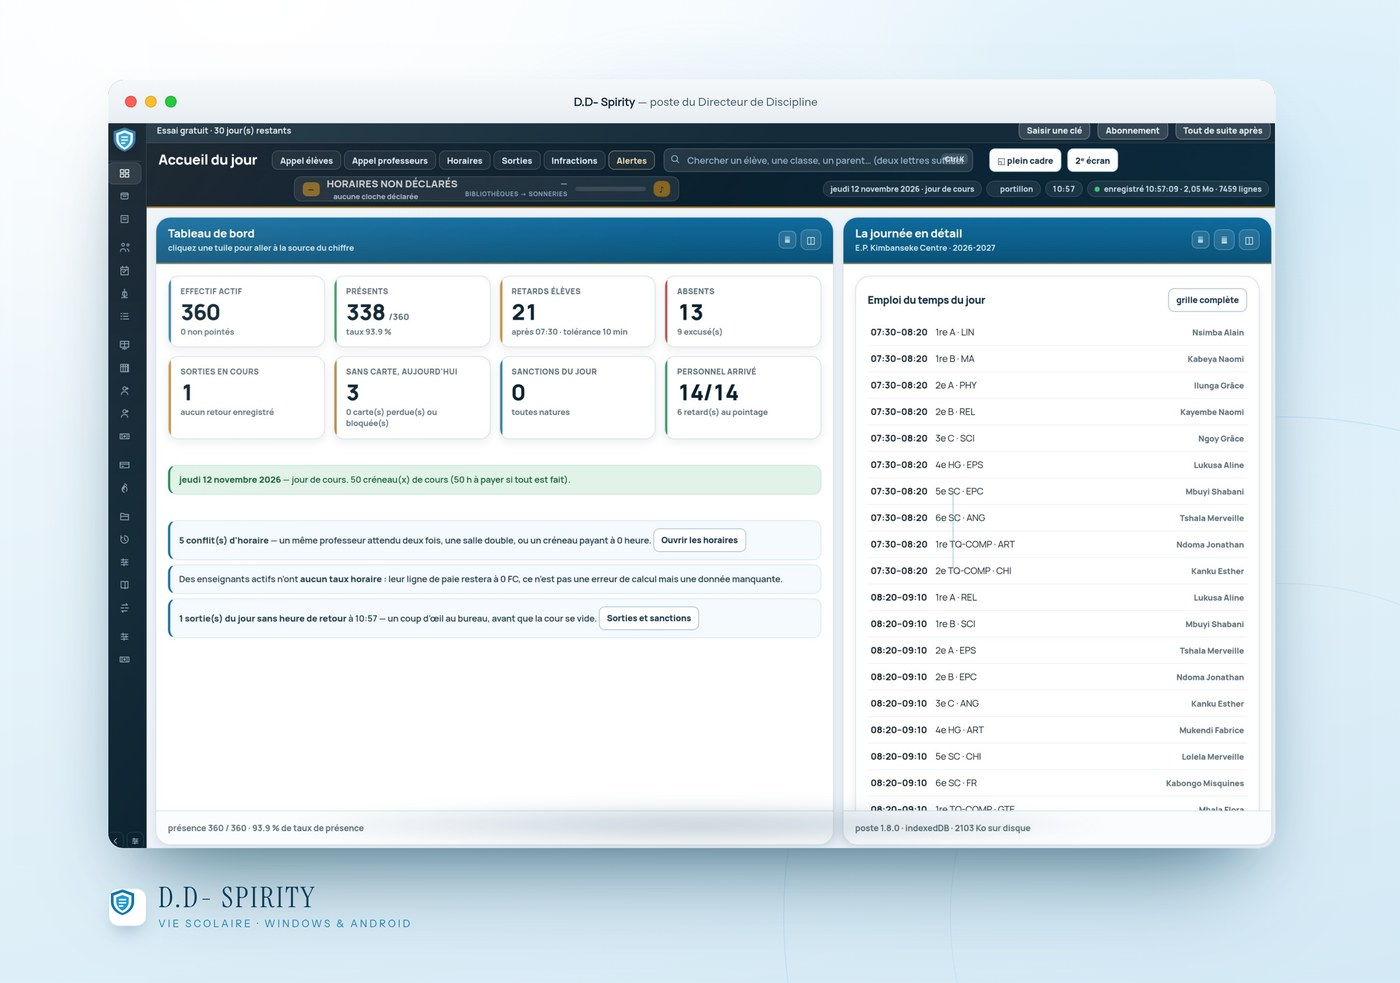
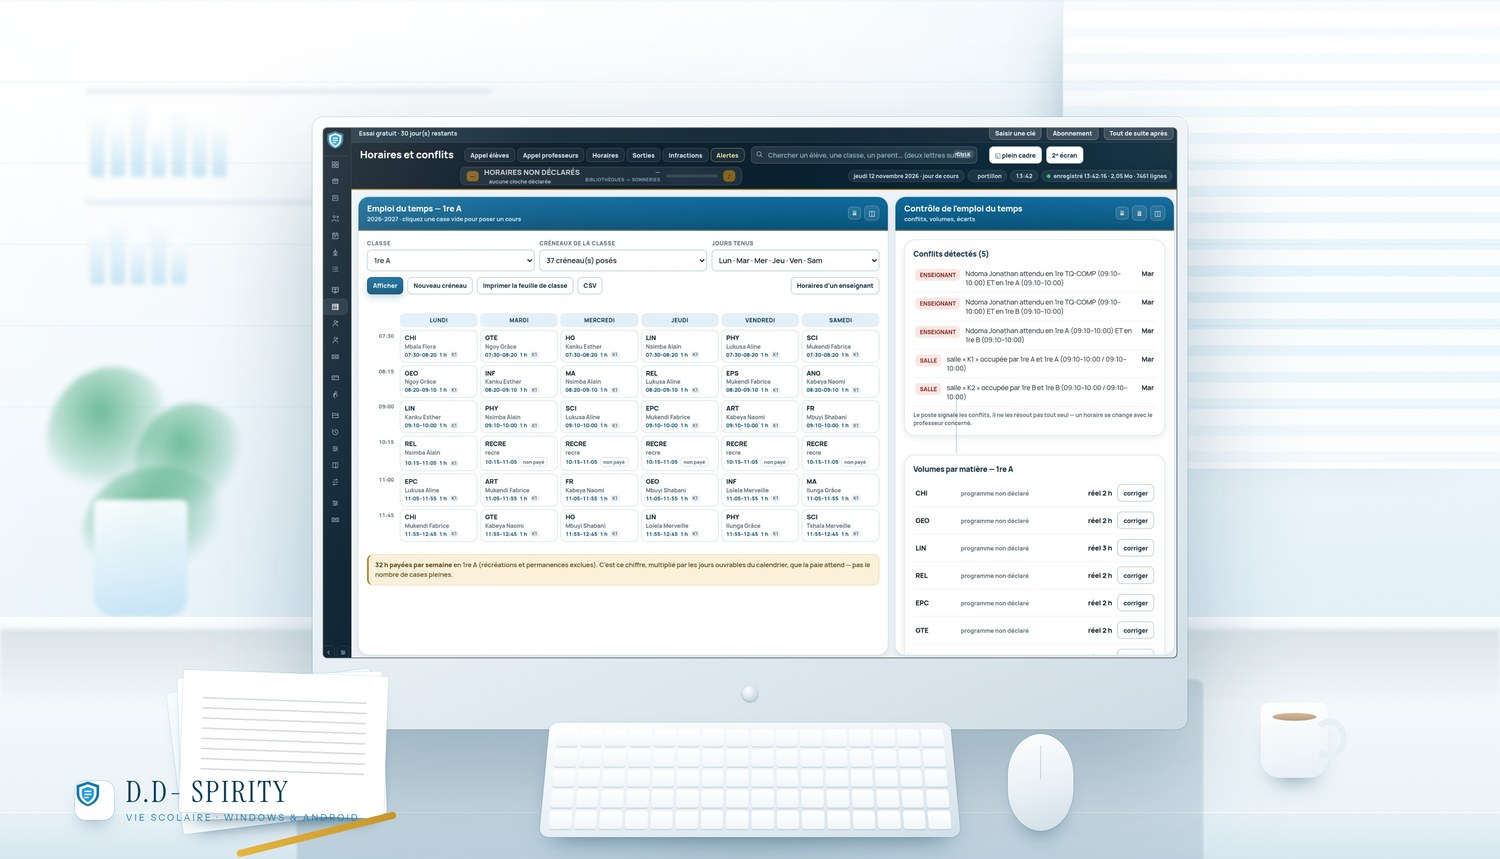
Maquettes produit v5 : le logiciel installé dans son environnement de travail
Le client ne veut plus de captures flottant dans le vide, mais une mise en scène.

STOCKIA — un comptoir de pharmacie : écran de bureau fin avec la caisse ouverte, clavier
(touches dessinées, perspective légère) et souris, imprimante thermique avec un ticket qui
sort, douchette sur son support avec câble et LED, tiroir-caisse qui affleure sous le
comptoir, flacons et boîtes en flou au fond, lumière naturelle venant de la gauche.

D.D- SPIRITY — un bureau de direction : l'écran affiche « Horaires et conflits » de la
1re A (pas le tableau de bord, comme demandé) — un professeur attendu deux fois, une salle
occupée deux fois, les volumes par matière à côté. Fenêtre à store, bibliothèque, plante,
sous-main, feuilles, crayon, tasse ; clavier et souris ; rail replié.

PAGES : la maquette passe avant le texte, dans une plaque au liseré d'azur, avec sa légende
et la liste de ce qu'elle montre ; <picture> sert une version 1500 px sous 760 px ;
apparition discrète (24 px de montée, mise au point) coupée si le système demande moins
d'animation.

Les deux scènes sont composées en CSS et rendues par un vrai Chrome en 3840×2200 —
aucune image de décor, tout est redessiné.

Contrôle : 343 points, 0 échec. 0 débordement à 390/768/1024/1920, aucune image cassée.

diff --git a/assets/css/site.css b/assets/css/site.css
@@ -808,8 +808,18 @@ body.menu-ouvert .panneau a{opacity:1;transform:none}
 /* la maquette : elle déborde de la page, comme une photo de produit posée sur le papier */
 .maquette { position:relative; max-width:var(--page); margin:clamp(20px,3vw,40px) auto 0;
   padding-inline:var(--marge) }
-.maquette img { width:100%; height:auto; display:block; border-radius:clamp(14px,2vw,26px);
-  box-shadow:0 60px 120px -60px rgba(10,62,88,.45) }
+/* la plaque : la scène a son propre fond clair ; sans bord elle se fond dans la page.
+   Un liseré d'azur très pâle et une ombre douce la posent, comme une planche imprimée. » */
+.maquette picture { display:block; border-radius:clamp(10px,1.4vw,18px); overflow:hidden;
+  box-shadow:0 0 0 1px rgba(63,160,216,.22), 0 46px 90px -56px rgba(10,62,88,.5), 0 10px 26px -18px rgba(10,62,88,.28) }
+/* la scène est déjà composée avec son propre fond : on ne met ni ombre lourde ni rayon,
+   on la laisse affleurer le bord de la page. » */
+.maquette img { width:100%; height:auto; display:block; border-radius:clamp(10px,1.4vw,18px);
+  box-shadow:0 40px 90px -60px rgba(10,62,88,.35) }
+@media (min-width:1100px) {
+  /* la maquette déborde légèrement des marges : c'est ce qui la fait sortir de l'écran */
+  .maquette { max-width:calc(var(--page) + 60px); padding-inline:clamp(8px,1.6vw,26px) }
+}
 .maquette__legende { margin-top:14px; font-size:12.5px; color:var(--texte-pale); text-align:center }
 
 /* le problème / la réponse, face à face */
@@ -884,4 +894,33 @@ body.menu-ouvert .panneau a{opacity:1;transform:none}
   .creation__vignette { grid-area:v; max-width:220px }
   .creation__fleche { grid-area:f }
   .creation__corps { grid-area:c }
+}
+
+/* ── la maquette produit : l'image + la liste de ce qu'elle montre ── */
+.maquette picture { display:block }
+.maquette__pied { display:flex; flex-wrap:wrap; align-items:center; justify-content:center;
+  gap:10px 22px; margin-top:16px; text-align:center }
+.maquette__legende { font-size:13px; color:var(--texte-doux); margin:0 }
+.maquette__legende b { color:var(--encre); font-weight:600 }
+.maquette__liste { display:flex; flex-wrap:wrap; justify-content:center; gap:6px 8px; list-style:none }
+.maquette__liste li { font-size:11px; letter-spacing:.1em; text-transform:uppercase; color:var(--azur-700);
+  background:rgba(255,255,255,.72); border:1px solid rgba(63,160,216,.28); padding:6px 11px; border-radius:999px }
+@media (max-width:760px) {
+  .maquette__pied { gap:8px }
+  .maquette__liste li { font-size:10px; padding:5px 9px }
+}
+
+/* ── l'apparition des maquettes : une seule fois, discrète ──
+   Le client demande « des animations discrètes à l'apparition, sans effets excessifs ».
+   On monte de 24 px avec une mise au point progressive, et c'est tout. » */
+.maquette {
+  opacity:0; transform:translateY(24px) scale(.994);
+  filter:blur(6px) saturate(.94);
+  transition:opacity 1.15s var(--sortie), transform 1.25s var(--sortie),
+             filter 1.35s var(--sortie);
+  transition-delay:120ms;
+}
+.maquette.vu { opacity:1; transform:none; filter:none }
+@media (prefers-reduced-motion:reduce) {
+  .maquette { opacity:1 !important; transform:none !important; filter:none !important }
 }

diff --git a/stockia.html b/stockia.html
@@ -92,9 +92,17 @@
 
   <!-- la maquette : un iMac sur le comptoir, la douchette à côté -->
   <div class="maquette" data-monter data-rang="2">
-    <img src="assets/medias/maquette-stockia.jpg" alt="Stockia sur un ordinateur de bureau, avec sa douchette USB sur son support"
-         width="3360" height="2360">
-    <p class="maquette__legende">Le poste de vente sur un ordinateur de bureau, sa douchette USB sur son support.</p>
+    <picture><source media="(max-width:760px)" srcset="assets/medias/maquette-stockia-petit.jpg"><img src="assets/medias/maquette-stockia.jpg" alt="Stockia installé sur un poste de vente de pharmacie : écran, clavier, souris, imprimante à tickets, douchette sur son support et tiroir-caisse" width="3840" height="2200" fetchpriority="high"></picture>
+    <div class="maquette__pied">
+      <p class="maquette__legende">Le poste de vente complet, tel qu'il s'installe au comptoir :</p>
+      <ul class="maquette__liste">
+        <li>ordinateur de bureau, Stockia ouvert</li>
+        <li>imprimante thermique à tickets</li>
+        <li>douchette de codes-barres sur son support</li>
+        <li>clavier, souris</li>
+        <li>tiroir-caisse</li>
+      </ul>
+    </div>
   </div>
 </section>
 

diff --git a/dd-spirity.html b/dd-spirity.html
@@ -90,9 +90,16 @@
   </div>
 
   <div class="maquette" data-monter data-rang="2">
-    <img src="assets/medias/maquette-dd.jpg" alt="D.D- Spirity dans une fenêtre sur ordinateur : le tableau du jour, effectif, présents, retards, emploi du temps"
-         width="3360" height="2360">
-    <p class="maquette__legende">Le tableau du jour, à la première sonnerie. Le rail est replié : toute la place va au travail.</p>
+    <picture><source media="(max-width:760px)" srcset="assets/medias/maquette-dd-petit.jpg"><img src="assets/medias/maquette-dd.jpg" alt="D.D- Spirity installé dans un bureau de direction : l'écran affiche les horaires et les conflits de l'école" width="3840" height="2200" fetchpriority="high"></picture>
+    <div class="maquette__pied">
+      <p class="maquette__legende">Le bureau de la direction, D.D- Spirity ouvert sur les <b>horaires et les conflits</b> de la 1re A :</p>
+      <ul class="maquette__liste">
+        <li>un professeur attendu deux fois signalé</li>
+        <li>une salle occupée deux fois signalée</li>
+        <li>les volumes par matière, à côté</li>
+        <li>le rail replié : toute la place au travail</li>
+      </ul>
+    </div>
   </div>
 </section>
 

diff --git a/assets/js/site.js b/assets/js/site.js
@@ -65,7 +65,7 @@
      On observe la SECTION, puis on révèle ses enfants. Observer l'élément lui-même
      ne marche pas : un texte masqué ou un trait à l'échelle 0 n'a aucune surface
      d'intersection — l'observateur ne le verrait jamais arriver. */
-  var aReveler = $$('[data-monter],[data-ligne],[data-trait],.principe');
+  var aReveler = $$('[data-monter],[data-ligne],[data-trait],.principe,.maquette');
   var groupes = [];
   aReveler.forEach(function (el) {
     /* on remonte jusqu'à la SECTION (ou la porte, ou un bloc de page produit) ;
